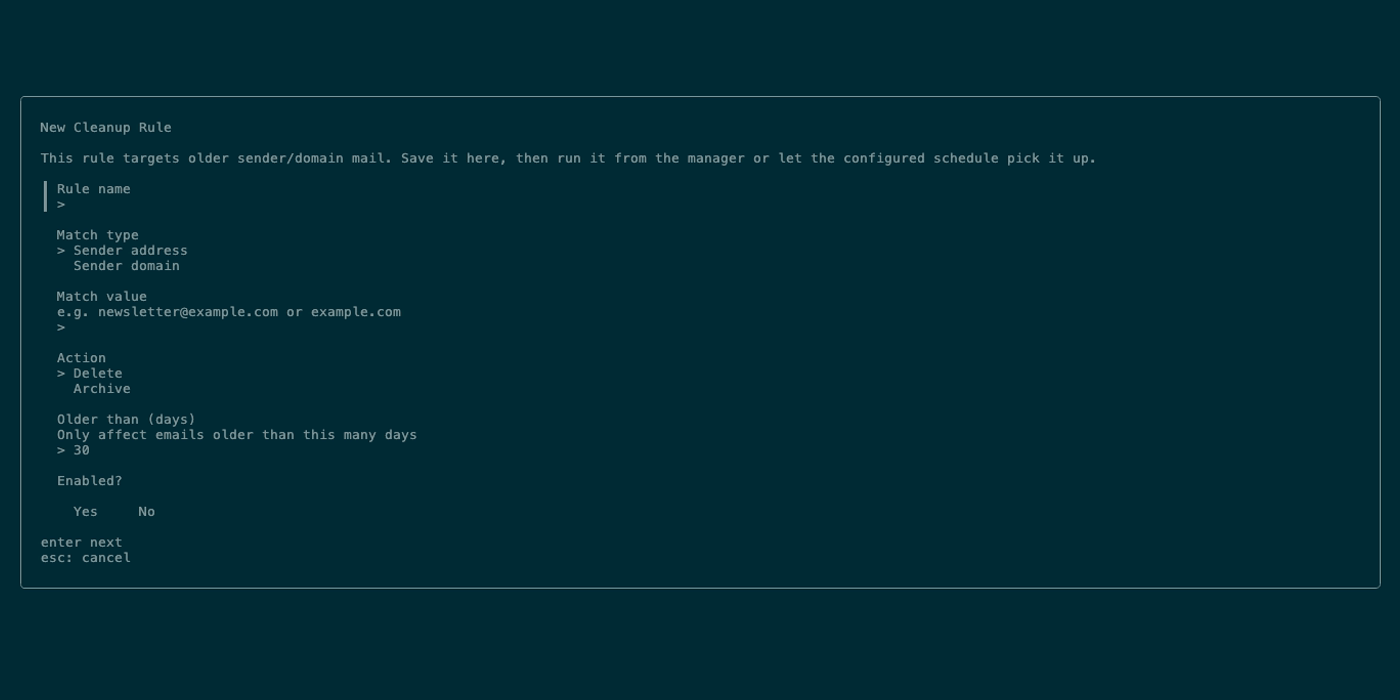
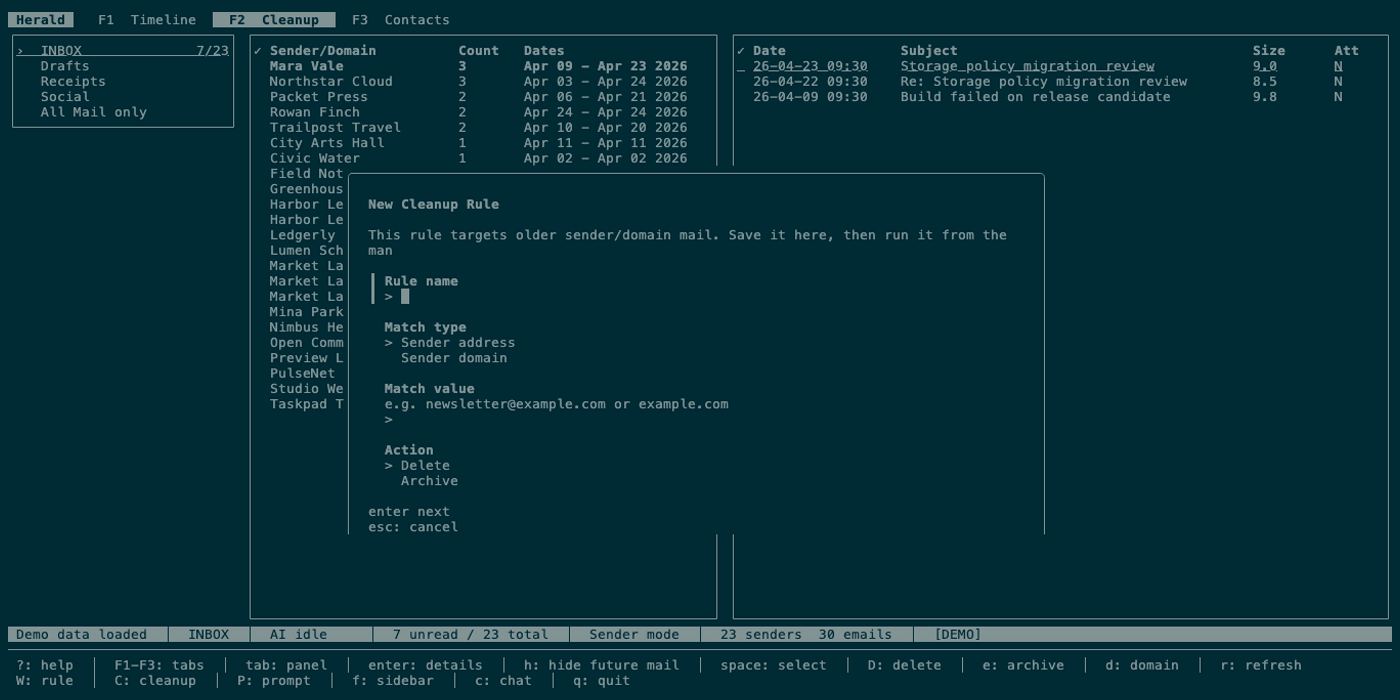
docs: refresh cleanup overlay docs

diff --git a/docs/src/content/docs/using-herald/global-ui.md b/docs/src/content/docs/using-herald/global-ui.md
@@ -7,21 +7,20 @@ Global UI covers the parts of Herald that stay consistent while you move between
 
 ## Overview
 
-Herald is a Bubble Tea terminal app with a persistent header, tab bar, optional folder sidebar, main content panels, optional chat panel, bottom status bar, context-sensitive key hints, and a `?` shortcut help overlay. Most browsing work happens in three tabs: Timeline, Cleanup, or Contacts. Compose is a transient writing screen launched from Timeline, and the common navigation surfaces work with both keys and mouse input.
+Herald is a Bubble Tea terminal app with a persistent title-row tab strip, optional folder sidebar, main content panels, optional chat panel, bottom status bar, context-sensitive key hints, and compact centered overlays for help, settings, and cleanup configuration. Most browsing work happens in three tabs: Timeline, Cleanup, or Contacts. Compose is a transient writing screen launched from Timeline, and the common navigation surfaces work with both keys and mouse input.
 
 ## Screen Anatomy
 
 | Area | What it shows | Notes |
 | --- | --- | --- |
-| Header | `Herald` while the main TUI is active. | The loading view shows a larger startup banner before cached data is visible. |
-| Tab bar | `F1 Timeline`, `F2 Cleanup`, `F3 Contacts`. | The active tab is highlighted. `F1-F3` are the primary tab shortcuts; number keys remain browse-context aliases, `Alt+1/2/3` remain secondary aliases, and mouse clicks switch tabs when the terminal sends mouse events. |
+| Title row | `Herald` plus `F1 Timeline`, `F2 Cleanup`, and `F3 Contacts`. | The active tab is highlighted. `F1-F3` are the primary tab shortcuts; number keys remain browse-context aliases, `Alt+1/2/3` remain secondary aliases, and mouse clicks switch tabs when the terminal sends mouse events. |
 | Top sync strip | Current startup or live sync phase. | Appears when Herald is loading while some visible data is already available. |
 | Folder sidebar | IMAP folder tree with unread and total counts. | Visible mainly on Timeline and Cleanup when the terminal is wide enough. |
 | Main panels | The active tab content. | Timeline and Cleanup can split into list/detail/preview layouts. |
 | Chat panel | Right-side AI chat input and transcript. | Opens with `c` when AI is configured and the terminal is wide enough. |
 | Status bar | Folder breadcrumb, AI chip, search or cleanup state, deletion progress, sync countdown, demo/dry-run/log flags. | Confirmation prompts temporarily replace normal status. |
 | Key hints | The currently valid keys for the focused tab, panel, or overlay. | Hints wrap to at most two lines. |
-| Shortcut help | A scrollable overlay opened with `?`. | Lists the fuller shortcut catalog for the current tab, pane, overlay, or Compose mode. |
+| Compact overlays | Scrollable or form-based modals opened with `?`, `S`, `W`, `P`, `C`, or rule preview actions. | They stay centered over the current screen at supported sizes; at very small sizes Herald shows the minimum-size guard. |
 
 <!-- HERALD_SCREENSHOT id="global-main-layout" page="global-ui" alt="Herald main layout with Timeline and sidebar" state="demo mode, 120x40, Timeline tab, sidebar visible" desc="Shows header, tab bar, folder sidebar, Timeline list, status bar, and key hints together." capture="tmux demo 120x40; ./bin/herald --demo; press F1" -->
 
@@ -42,7 +41,7 @@ Herald is a Bubble Tea terminal app with a persistent header, tab bar, optional 
 | `c` / `alt+c` | Main UI | Not loading and width allows the chat panel. | Toggles AI chat and focuses its input; use `alt+c` while composing. |
 | `l` / `L` / `alt+l` | Main UI | Visible data can be interacted with. | Toggles the log viewer overlay; use `alt+l` while composing. |
 | `r` / `alt+r` | Main UI | Not loading. | Refreshes the current folder and clears Timeline chat filters; use `alt+r` while composing. |
-| `S` | Main UI | Settings overlay is not already open. | Opens settings as a full-screen panel. |
+| `S` | Main UI | Settings overlay is not already open. | Opens settings as a compact centered overlay over the current screen. |
 | `a` | Main UI | AI classifier is configured and work is available. | Starts folder classification. |
 | `?` | Main UI and Herald-owned overlays | Visible data can be interacted with. | Opens context-sensitive shortcut help; pressing `?`, `esc`, or `q` closes it. |
 | `esc` | Main UI and overlays | A transient state is active. | Closes the most specific state first, such as quick reply, visual mode, full-screen preview, cleanup preview, chat filter, Timeline preview, search, Compose AI panel, Compose status message, or the Compose screen itself. |
@@ -96,11 +95,11 @@ Browse contexts also accept `1`, `2`, and `3` as compatibility aliases. When a t
 2. Scroll with `j`/`k` or arrow keys.
 3. Press `l` again to close.
 
-### Open Shortcut Help
+### Open Compact Overlays
 
-1. Press `?`.
-2. Scroll with `j`/`k`, arrow keys, page keys, or the mouse wheel when the overlay is taller than the terminal.
-3. Press `?`, `esc`, or `q` to return to the same tab, panel, or overlay.
+1. Press `?` for shortcut help, `S` for settings, or open Cleanup and press `W`, `P`, or `C` for cleanup configuration.
+2. Scroll or move through the overlay with its local controls when its content is taller than the modal.
+3. Press `esc` or the documented close key to return to the same tab, panel, or underlying overlay state.
 
 ## States
 
@@ -113,7 +112,7 @@ Browse contexts also accept `1`, `2`, and `3` as compatibility aliases. When a t
 | Chat unavailable at size | Status says chat is hidden at this size. | Widen the terminal before pressing `c` again. |
 | AI unavailable | AI chip reads off/down or AI actions show a concise error. | Configure AI or continue using non-AI mail features. |
 | Logs overlay | Log viewer is on top of the current tab and status includes `Logs ON`. | Press `l` or `Alt+L` to close. |
-| Shortcut help | A scrollable command reference is on top of the current tab or overlay. | Press `?`, `esc`, or `q` to close it. |
+| Compact modal | Help, settings, cleanup rule editors, prompt editors, cleanup manager, or dry-run previews are centered over the current screen. | Use the overlay's local keys; at `50x15`, resize until the minimum-size guard clears. |
 | Confirmation | Status bar asks for `y` confirm or `n`/`Esc` cancel. | Confirm only if the described action matches your intent. |
 
 ## Data And Privacy

diff --git a/README.md b/README.md
@@ -43,10 +43,11 @@ To test terminal image rendering, run demo mode in a Kitty-protocol terminal suc
 | Standard IMAP + Gmail IMAP App Password setup | ✅ |
 | IMAP presets: ProtonMail Bridge, Fastmail, iCloud, Outlook | ✅ |
 | Experimental Gmail OAuth onboarding (`-experimental`) | ⚠ |
-| Chronological timeline with split-view email preview | ✅ |
+| Reading-first Timeline with split/full previews and range selection | ✅ |
 | Terminal inline images via Kitty/Ghostty and iTerm2 full-screen previews | ✅ |
 | Mouse navigation — clickable tabs, folder/list rows, scrollable previews, and OSC 8 links | ✅ |
-| Bulk cleanup — delete by sender or domain in one keystroke | ✅ |
+| Bulk cleanup — delete/archive by sender or domain, plus dry-run cleanup rule previews | ✅ |
+| Compact overlays for settings, shortcut help, cleanup rules, prompts, and previews | ✅ |
 | AI classification via Ollama (gemma3, llama3, etc.) | ✅ |
 | Semantic search with `nomic-embed-text-v2-moe` + chunked body embeddings | ✅ |
 | Quick replies — 5 canned + 3 AI-generated suggestions (Ctrl+Q) | ✅ |
@@ -287,14 +288,16 @@ herald status
 
 | Capability | Requirement |
 |------------|-------------|
-| Recent/unread/search/sender stats/classification reads | Open the TUI or run the daemon so the SQLite cache has synced mail. |
+| Recent/unread/search/sender stats/classification reads and cleanup dry-run previews | Open the TUI or run the daemon so the SQLite cache has synced mail. |
 | Email body, summaries, action items, and draft replies | Open the email in the TUI first so its body text is cached. |
 | Semantic search, summaries, classification, and action-item extraction | Configure an AI provider, such as Ollama, Claude, or OpenAI-compatible settings. |
 | Sync, drafts, attachments, send/reply/forward, folder changes, and mail mutations | Start `herald serve` with the same `-config` used by the MCP server. |
 
 If `herald serve` exits with `wildcard not at end`, upgrade Herald; older binaries had an invalid daemon route pattern for folder rename.
 
-### Available MCP Tools
+### Selected MCP Tools
+
+The full tool catalog is in the [MCP docs](docs/src/content/docs/advanced/mcp.md). Common cache-backed tools work after sync; live mutation tools need `herald serve`.
 
 | Tool | Description |
 |------|-------------|
@@ -309,6 +312,8 @@ If `herald serve` exits with `wildcard not at end`, upgrade Herald; older binari
 | `get_email_classifications` | AI category counts for a folder |
 | `classify_email` | Run AI classification on one email |
 | `summarise_email` | Generate a summary via Ollama |
+| `dry_run_cleanup_rules` | Preview cleanup rule matches without mutating mail |
+| `run_cleanup_rules` | Run enabled cleanup rules through the daemon |
 | `list_contacts` | Paginated contact list |
 | `search_contacts` | Keyword search on name/email/company/topics |
 | `semantic_search_contacts` | Natural-language contact search |
@@ -326,6 +331,9 @@ If `herald serve` exits with `wildcard not at end`, upgrade Herald; older binari
 | `C` | Open a new Compose screen from Timeline |
 | `j` / `k` | Navigate down / up |
 | `Enter` | Open email preview |
+| `Space` | Select Timeline messages or Cleanup rows, depending on focus |
+| `Shift+Up` / `Shift+Down` | Extend Timeline range selection when supported by the terminal |
+| `V`, then `j` / `k` | Fallback Timeline range selection without shifted-arrow support |
 | `Escape` | Close preview / picker, or return from Compose to its originating Timeline screen |
 | `D` | Delete selected email or sender |
 | `e` | Archive |
@@ -334,7 +342,10 @@ If `herald serve` exits with `wildcard not at end`, upgrade Herald; older binari
 | `Ctrl+Q` | Quick reply picker (in preview) |
 | `u` | Unsubscribe |
 | `z` | Full-screen preview |
-| `S` | Open settings |
+| `S` | Open settings as a compact overlay |
+| `W` / `P` / `C` | Open Cleanup automation rules, custom prompts, or cleanup rule manager overlays |
+| `p` / `r` in Cleanup manager | Preview selected cleanup rule or all enabled cleanup rules |
+| `s` / `E` / `R` in dry-run preview | Save disabled, enable after confirmation, or run previewed cleanup live |
 | `c` / `Alt+C` | Toggle AI chat panel (`Alt+C` also works while composing) |
 | `a` | Run AI classification on current folder |
 | `f` / `Alt+F` | Toggle folder sidebar (`Alt+F` also works while composing) |

diff --git a/docs/src/content/docs/features/settings.md b/docs/src/content/docs/features/settings.md
@@ -3,11 +3,11 @@ title: Settings
 description: Edit Herald account, server, AI, sync, cleanup, and OAuth settings from the TUI.
 ---
 
-Settings is a full-screen panel opened from the main TUI. It lets you adjust configuration without manually editing YAML for common account, AI, sync, and cleanup fields.
+Settings is a compact centered overlay opened from the main TUI. It lets you adjust configuration without manually editing YAML for common account, AI, sync, and cleanup fields while keeping the current Herald screen visible behind it.
 
 ## Overview
 
-Press `S` from the main UI to open settings. The panel reads the current config, lets you edit supported fields, writes the config path, updates AI provider details, and can trigger OAuth wait behavior for supported OAuth flows.
+Press `S` from the main UI to open settings. The overlay reads the current config, lets you edit supported fields, writes the config path, updates AI provider details, and can trigger OAuth wait behavior for supported OAuth flows.
 
 ## Screen Anatomy
 
@@ -20,18 +20,18 @@ Press `S` from the main UI to open settings. The panel reads the current config,
 | AI model fields | Chat/classification model and embedding model. |
 | Sync fields | Poll interval minutes and IMAP IDLE setting. |
 | Cleanup fields | Cleanup schedule hours and related automation timing. |
-| Save/cancel controls | Form-level completion or cancellation behavior. |
+| Save/cancel controls | Form-level completion or cancellation behavior inside the modal. |
 | OAuth wait overlay | URL/open-browser state while waiting for OAuth callback and token storage. |
 
-<!-- HERALD_SCREENSHOT id="settings-main-panel" page="settings" alt="Settings panel open" state="demo mode, 120x40, settings panel active" desc="Shows settings form fields for provider, server, SMTP, AI, sync, cleanup, and save/cancel affordances." capture="tmux demo 120x40; ./bin/herald --demo; press S" -->
+<!-- HERALD_SCREENSHOT id="settings-main-panel" page="settings" alt="Settings overlay open" state="demo mode, 120x40, settings overlay active" desc="Shows compact centered settings form fields for provider, server, SMTP, AI, sync, cleanup, and save/cancel affordances over the current Herald view." capture="tmux demo 120x40; ./bin/herald --demo; press S" -->
 
-![Settings panel open](/screenshots/settings-main-panel.png)
+![Settings overlay open](/screenshots/settings-main-panel.png)
 
 ## Controls
 
 | Key | Context | Preconditions | Result |
 | --- | --- | --- | --- |
-| `S` | Main UI | Settings closed. | Opens settings panel. |
+| `S` | Main UI | Settings closed. | Opens settings as a compact centered overlay. |
 | `tab` | Settings form | A form field is active. | Moves through form controls according to the form component. |
 | `enter` | Settings form | Current field or form action is valid. | Accepts selection, advances, or saves when on final action. |
 | `esc` | Settings form | Settings active. | Cancels/closes panel when supported by current form state. |
@@ -59,7 +59,7 @@ Press `S` from the main UI to open settings. The panel reads the current config,
 ### Start OAuth
 
 1. Choose an OAuth-capable provider path.
-2. In first-run onboarding, launch Herald with `-experimental` first; in the in-app settings panel, choose the OAuth path directly.
+2. In first-run onboarding, launch Herald with `-experimental` first; in the in-app settings overlay, choose the OAuth path directly.
 3. Confirm you are using Homebrew/a release binary with OAuth defaults, or that your shell has `HERALD_GOOGLE_CLIENT_ID` and `HERALD_GOOGLE_CLIENT_SECRET` exported.
 4. In the OAuth wait overlay, press `enter` to open the browser.
 5. Complete provider consent.
@@ -69,7 +69,7 @@ Press `S` from the main UI to open settings. The panel reads the current config,
 
 | State | What happens |
 | --- | --- |
-| Panel mode | Settings replaces the normal tabs until saved or cancelled. |
+| Overlay mode | Settings appears over the current screen at supported sizes; at `80x24` it fits inside the viewport, and at `50x15` the standard minimum-size guard appears instead of a clipped form. |
 | First-run mode | Settings/wizard completion is required before the main mailbox opens. |
 | OAuth waiting | Herald shows authorization URL state and waits for callback. |
 | OAuth saved | Token data is written to config. |

diff --git a/docs/src/content/docs/advanced/mcp.md b/docs/src/content/docs/advanced/mcp.md
@@ -38,7 +38,7 @@ MCP has a few capability levels because some tools read the SQLite cache while o
 
 | Capability | Requirement |
 | --- | --- |
-| Cache-only read tools such as recent mail, unread mail, keyword search, sender stats, contacts, rules, and stored classifications | Run the TUI or daemon long enough to sync the SQLite cache. |
+| Cache-only read tools such as recent mail, unread mail, keyword search, sender stats, contacts, rules, dry-run cleanup previews, and stored classifications | Run the TUI or daemon long enough to sync the SQLite cache. |
 | Body lookup, email summaries, action-item extraction, and draft-reply generation | Cache the message body first, usually by opening the email in the TUI. MCP listing outputs include `message_id=...` for these follow-up tools. |
 | Semantic search, summarization, classification, action items, and AI draft replies | Configure an AI provider in settings or YAML. Ollama can also provide embeddings for semantic search. |
 | Sync, drafts, attachments, send/reply/forward, folder mutation, cleanup execution, unsubscribe, and mail mutation tools | Start `herald serve -config ~/.herald/conf.yaml` before or during the MCP client session. The MCP server re-checks the daemon when a daemon-backed tool runs. |
@@ -84,14 +84,14 @@ CODEX_MCP_SERVERS='{"herald":{"command":"herald","args":["mcp","-config","~/.her
 | --- | --- |
 | Read/search | `list_recent_emails`, `search_emails`, `get_sender_stats`, `get_email_classifications`, `get_email_body`, `list_unread_emails`, `search_by_date`, `search_by_sender`, `semantic_search_emails` |
 | AI/classification | `classify_email`, `classify_folder`, `summarise_email`, `summarise_thread`, `extract_action_items`, `draft_reply`, `list_classification_prompts`, `classify_email_custom`, `get_custom_category` |
-| Rules and cleanup | `list_rules`, `add_rule`, `run_rules`, `list_cleanup_rules`, `create_cleanup_rule`, `run_cleanup_rules` |
+| Rules and cleanup | `list_rules`, `add_rule`, `run_rules`, `list_cleanup_rules`, `create_cleanup_rule`, `dry_run_cleanup_rules`, `run_cleanup_rules` |
 | Contacts | `list_contacts`, `search_contacts`, `semantic_search_contacts`, `get_contact` |
 | Folder/sync | `list_folders`, `get_server_info`, `sync_folder`, `sync_all_folders`, `get_sync_status`, `create_folder`, `rename_folder`, `delete_folder` |
 | Message mutation | `mark_read`, `mark_unread`, `delete_email`, `archive_email`, `move_email`, `delete_thread`, `archive_thread`, `bulk_delete`, `archive_sender`, `bulk_move`, `unsubscribe_sender`, `soft_unsubscribe_sender` |
 | Compose/drafts | `send_email`, `save_draft`, `list_drafts`, `send_draft`, `reply_to_email`, `forward_email` |
 | Attachments | `list_attachments`, `get_attachment` |
 
-Read-only cache tools can work without the daemon after the TUI has populated the cache. Write, sync, send, draft, attachment, unsubscribe, folder mutation, and many live classification tools require the daemon.
+Read-only cache tools can work without the daemon after the TUI has populated the cache. `dry_run_cleanup_rules` is read-only: it previews selected or enabled cleanup-rule matches without mutating mail or updating rule metadata. Write, sync, send, draft, attachment, unsubscribe, folder mutation, live cleanup execution, and many live classification tools require the daemon.
 
 ## Daemon Interaction
 

diff --git a/docs/src/content/docs/using-herald/cleanup.md b/docs/src/content/docs/using-herald/cleanup.md
@@ -18,9 +18,10 @@ Press `3` to open Cleanup. Use it when you want to answer questions like "which 
 | Detail table | Emails for the focused summary row with columns for selection, Date, Subject, Size, and Att. |
 | Preview panel | Current cleanup email body, header metadata, action hints, unsubscribe visibility, scroll state, delete/archive progress. |
 | Full-screen preview | Cleanup preview expanded across the terminal, including bounded Kitty/Ghostty or iTerm2 inline-image display, or safe fallback links when graphics are unavailable. |
-| Rule editor overlay | Full-screen `Automation Rule` form opened by `W`. |
-| Custom prompt overlay | Full-screen prompt editor opened by `P`. |
-| Cleanup manager overlay | Full-screen saved cleanup rules manager opened by `C`. |
+| Rule editor overlay | Compact centered `Automation Rule` form opened by `W`, with saved-rule context visible in the same modal. |
+| Custom prompt overlay | Compact centered prompt editor opened by `P`, with saved-prompt context visible in the same modal. |
+| Cleanup manager overlay | Compact centered saved cleanup rules manager opened by `C`, with preview and edit entry points. |
+| Dry-run preview overlay | Compact centered preview of matched messages, folders, categories, and planned actions before a rule can be saved, enabled, or run live. |
 | Status bar | Sender/domain mode, selection counts, deletion/archive progress, dry-run mode, folder counts, and confirmations. |
 
 <!-- HERALD_SCREENSHOT id="cleanup-main-summary" page="cleanup" alt="Cleanup tab sender summary and details" state="demo mode, 120x40, Cleanup tab, sender mode" desc="Shows sender summary rows, detail rows, selection column, sender mode status, and cleanup key hints." capture="tmux demo 120x40; ./bin/herald --demo; press 3" -->
@@ -128,12 +129,12 @@ Mouse path: click a summary row to refresh details, click a detail row to open i
 | Selected detail rows | Status reports selected message count and sender/domain spread. |
 | Delete/archive confirmation | Status bar asks for `y` confirm or `n`/`Esc` cancel. |
 | Deleting/archive in progress | Requests are queued serially; status shows progress and reconnect messages when needed. |
-| Rules dry-run preview | Overlay lists matched messages with sender/domain/category, folder, subject/date, and planned action without mutating IMAP or SQLite run metadata. |
+| Rules dry-run preview | Compact overlay lists matched messages with sender/domain/category, folder, subject/date, and planned action without mutating IMAP or SQLite run metadata. |
 | Cleanup preview | Sidebar hides to make room; details panel can scroll the body. |
 | Full-screen preview | Cleanup preview expands and rewraps body lines. |
 | AI unavailable | `A` and category-trigger workflows cannot classify new content. |
 | Dry-run mode | Status shows `[DRY RUN]`; rule previews are available, but live cleanup execution from preview is blocked. |
-| Narrow terminal | Cleanup collapses columns and can hide the sidebar or summary panel while preview is open. |
+| Narrow terminal | Cleanup collapses columns and can hide the sidebar or summary panel while preview is open. Compact overlays fit at `80x24`; at `50x15`, Herald shows the standard minimum-size guard. |
 
 ## Data And Privacy
 

diff --git a/docs/src/content/docs/features/rules-automation.md b/docs/src/content/docs/features/rules-automation.md
@@ -20,6 +20,7 @@ Use `W` for future-mail automation rules, `P` for reusable AI prompts, and `C` f
 | Prompt editor | Name, output variable, system prompt, user template, and saved-prompt summary. |
 | Cleanup manager list | Saved cleanup rules with name, match type, match value, action, older-than days, enabled state, and last run. |
 | Cleanup manager edit form | Rule name, match type, match value, action, older-than days, and enabled toggle. |
+| Dry-run preview | Compact centered modal showing matched messages, folders, categories, and planned actions before save, enable, or live run. |
 | Status bar | Run results, dry-run marker, deletion/archive progress, and error messages. |
 
 <!-- HERALD_SCREENSHOT id="automation-rule-editor" page="rules-automation" alt="Automation rule editor form" state="demo mode, 120x40, Cleanup tab, W overlay open" desc="Shows trigger type/value, action selection, details fields, saved rule summary, and form help." capture="tmux demo 120x40; ./bin/herald --demo; press 3; press W" -->
@@ -99,7 +100,7 @@ Custom prompts are reusable instructions. A rule or MCP tool must invoke a saved
 | Prompt validation | Prompt name is required. |
 | No cleanup rules | Cleanup manager explains that `n` creates one. |
 | Disabled cleanup rule | Manager list marks the rule disabled and scheduled runs skip it. |
-| Dry-run preview | Preview shows matched messages, sender/domain/category, folder, and planned action without mutating mail. |
+| Dry-run preview | Compact preview shows matched messages, sender/domain/category, folder, and planned action without mutating mail. It fits at `80x24`; at `50x15`, Herald shows the standard minimum-size guard. |
 | Run all | Cleanup manager opens a dry-run preview for enabled rules before live execution is available. |
 | Dry-run mode | Status shows `[DRY RUN]`; live cleanup execution from preview is blocked until Herald is relaunched without dry-run mode. |
 | AI unavailable | AI-category triggers and custom prompt execution cannot classify new content. |

diff --git a/docs/src/content/docs/mcp-setup.md b/docs/src/content/docs/mcp-setup.md
@@ -40,7 +40,7 @@ Use the same `-config` path for the TUI, daemon, and MCP server. Cache-only tool
 
 | Capability | Requirement |
 | --- | --- |
-| Recent/unread mail, keyword search, sender stats, contacts, rules, and stored classifications | Run the TUI or daemon long enough to populate the SQLite cache. |
+| Recent/unread mail, keyword search, sender stats, contacts, rules, dry-run cleanup previews, and stored classifications | Run the TUI or daemon long enough to populate the SQLite cache. |
 | Body lookup, summaries, action items, and draft replies | Open the email in the TUI first so body text is cached. Listing outputs include `message_id=...` for follow-up calls. |
 | Semantic search, summaries, classification, and action-item extraction | Configure an AI provider such as Ollama, Claude, or OpenAI-compatible settings. |
 | Sync, drafts, attachments, sending, folder changes, and mail mutations | Start `herald serve -config ~/.herald/conf.yaml`; `herald status` should report a running daemon. |
@@ -89,6 +89,6 @@ CODEX_MCP_SERVERS='{"herald":{"command":"herald","args":["mcp","-config","~/.her
 
 ## Available tool categories
 
-Herald includes tools for recent mail, unread mail, sender search, date search, semantic search, body lookup, classification, summaries, contacts, draft replies, and rule inspection. AI-powered tools require an AI backend, and body-based tools require cached body text.
+Herald includes tools for recent mail, unread mail, sender search, date search, semantic search, body lookup, classification, summaries, contacts, draft replies, rule inspection, and `dry_run_cleanup_rules` previews. AI-powered tools require an AI backend, body-based tools require cached body text, and live mail mutation still requires the daemon.
 
 If `herald serve` crashes with `wildcard not at end`, upgrade Herald. Older binaries had an invalid daemon route pattern and cannot unlock daemon-backed MCP tools.

diff --git a/docs/src/content/docs/advanced/daemon.md b/docs/src/content/docs/advanced/daemon.md
@@ -31,7 +31,9 @@ The daemon exposes local endpoints for:
 - Status, sync, SSE events, and folders.
 - Email list, body, read/unread, star/unstar, delete, archive, move, classify, reply, forward, attachments, and unsubscribe.
 - Threads, bulk delete/move, sender archive/delete/soft-unsubscribe.
-- Stats, search, semantic search, classifications, rules, prompts, cleanup rules, and drafts.
+- Stats, search, semantic search, classifications, rules, prompts, cleanup rules, dry-run previews, and drafts.
+
+Dry-run planning is available through `POST /v1/rules/dry-run` for automation rules and `POST /v1/cleanup-rules/dry-run` for cleanup rules. These endpoints return matched messages and planned actions without mutating IMAP mail or updating rule metadata; live cleanup execution still goes through `POST /v1/cleanup-rules/run`.
 
 The default bind address is `127.0.0.1` and the default port is `7272`.
 

diff --git a/docs/src/content/docs/reference/config.md b/docs/src/content/docs/reference/config.md
@@ -3,7 +3,7 @@ title: Config Reference
 description: Reference for Herald YAML config fields, defaults, provider presets, and file locations.
 ---
 
-Herald reads YAML config from `~/.herald/conf.yaml` by default or from the path passed with `-config`. The first-run wizard and settings panel write the same config shape.
+Herald reads YAML config from `~/.herald/conf.yaml` by default or from the path passed with `-config`. The first-run wizard and settings overlay write the same config shape.
 
 ## Core Example
 
